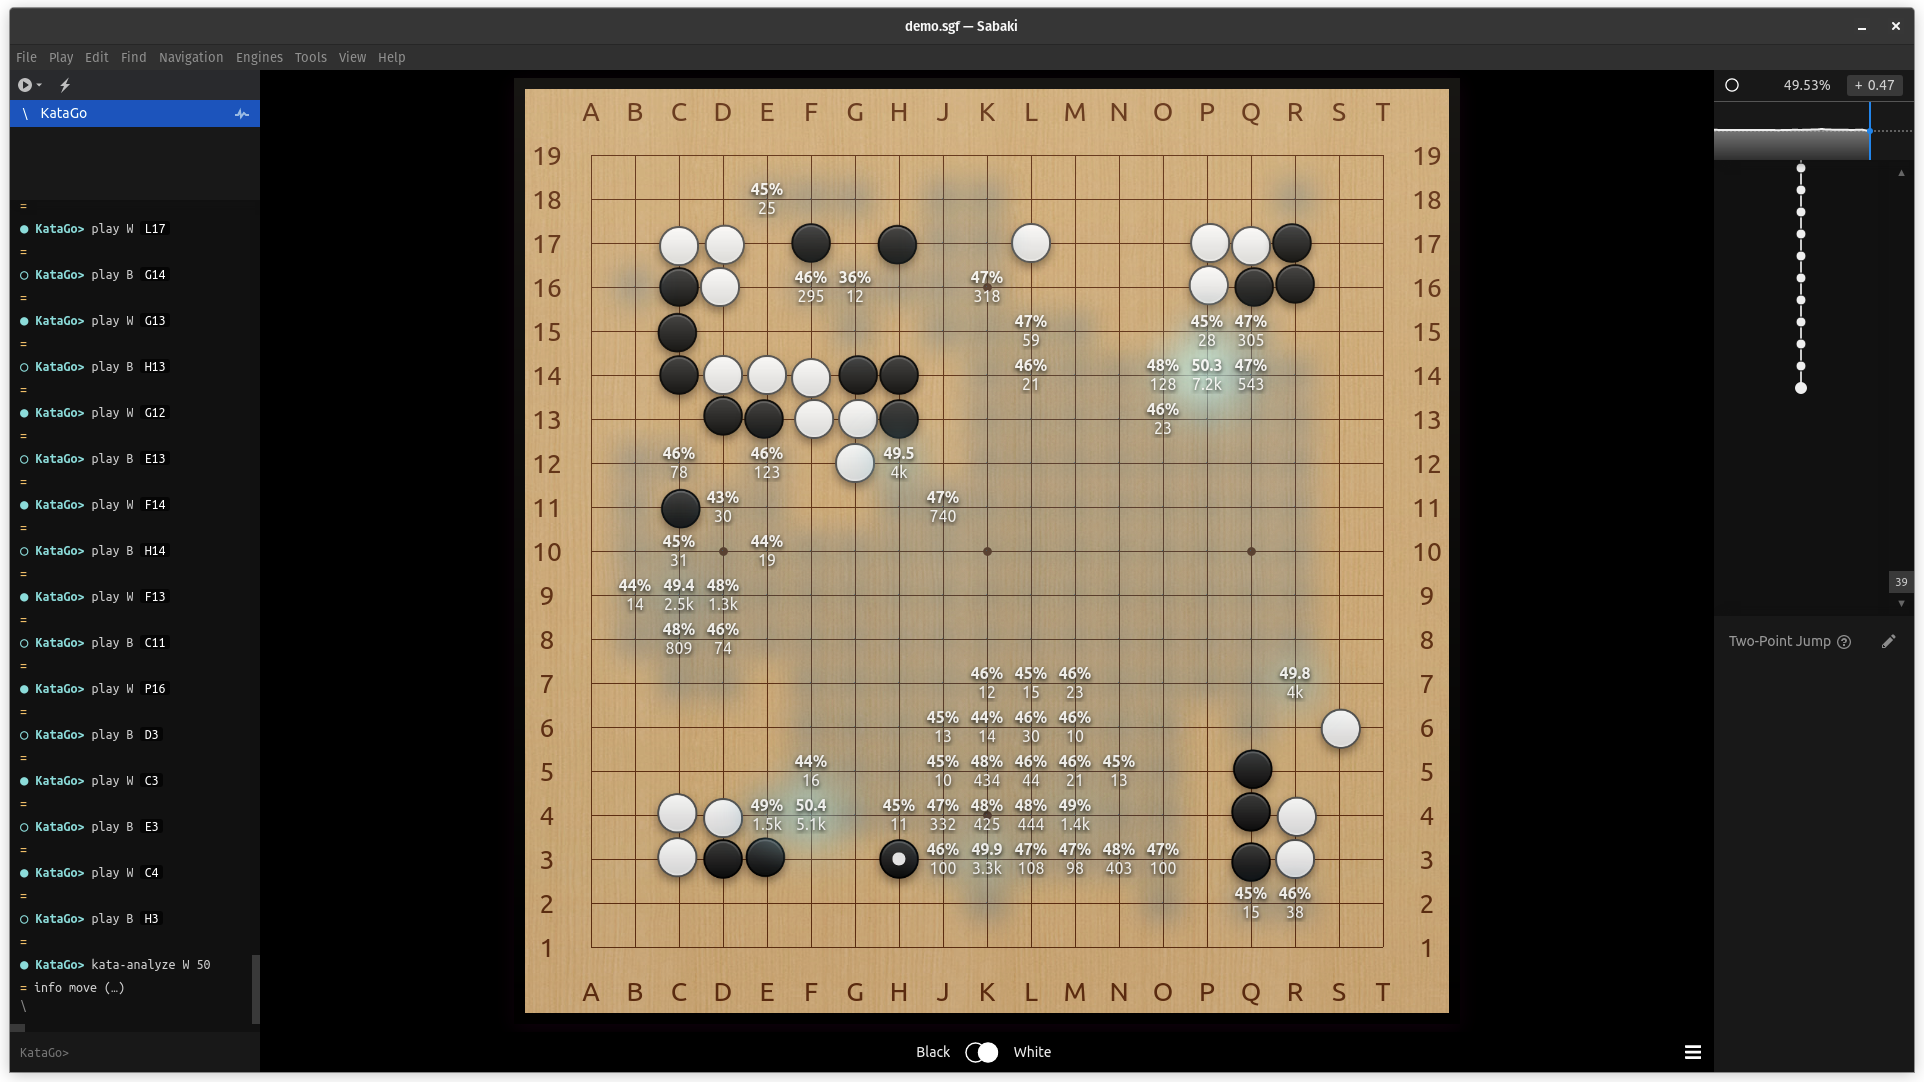
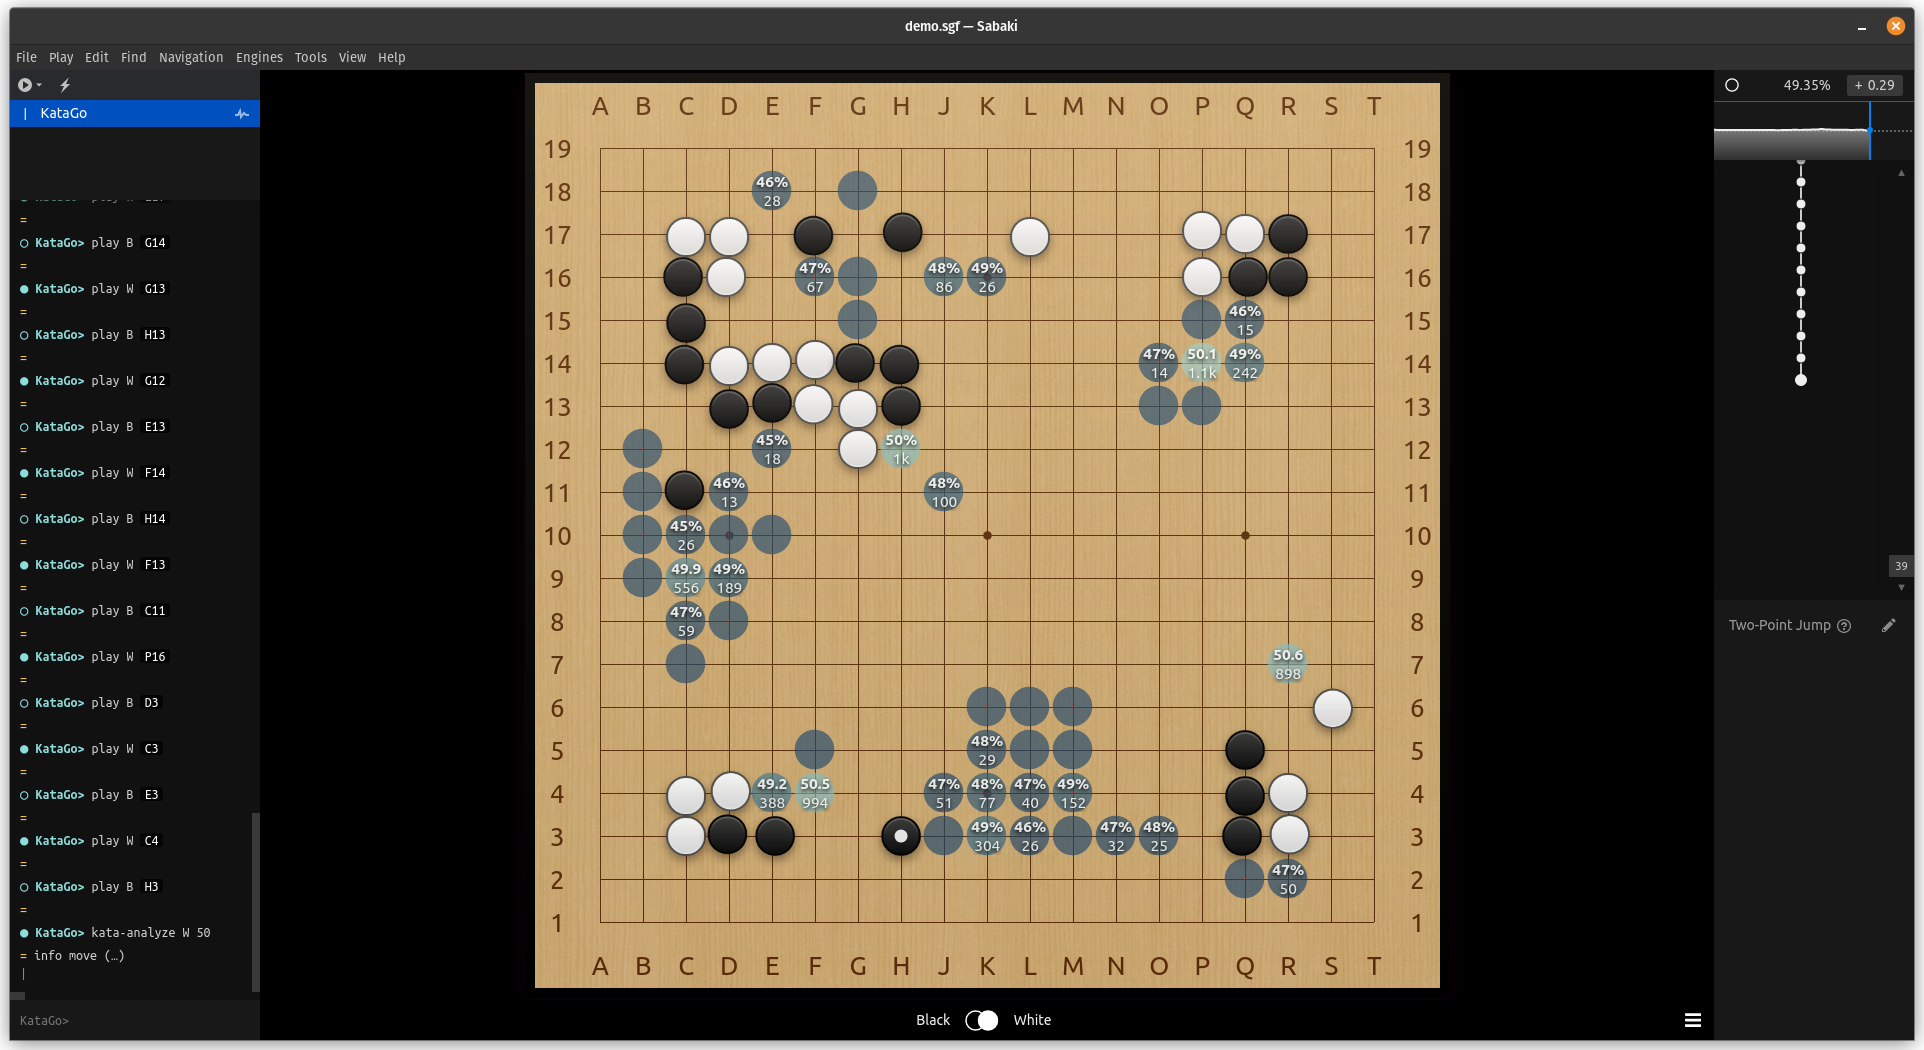
Subdue heatmap to hard circles

diff --git a/subdued/styles.css b/subdued/styles.css
@@ -39,47 +39,38 @@ main {
 /* Turn down the temperature on the heatmap */
 
 .shudan-vertex.shudan-heat_9 .shudan-heat {
-  background: #bcf4f5;
-  box-shadow: 0 0 1em 0.7em #bcf4f5;
-  opacity: 0.8;
+  box-shadow: 0 0 0 .45em #9dd4d5;
+  opacity: 0.65;
 }
 .shudan-vertex.shudan-heat_8 .shudan-heat {
-  background: #bcf4f5;
-  box-shadow: 0 0 1em 0.75em #bcf4f5;
-  opacity: 0.7;
+  box-shadow: 0 0 0 .45em #88c2c9;
+  opacity: 0.65;
 }
 .shudan-vertex.shudan-heat_7 .shudan-heat {
-  background: #94d1dc;
-  box-shadow: 0 0 1em 0.6em #94d1dc;
-  opacity: 0.8;
+  box-shadow: 0 0 0 .45em #74b1bd;
+  opacity: 0.65;
 }
 .shudan-vertex.shudan-heat_6 .shudan-heat {
-  background: #94d1dc;
-  box-shadow: 0 0 1em 0.65em #94d1dc;
-  opacity: 0.8;
+  box-shadow: 0 0 0 .45em #619fb1;
+  opacity: 0.65;
 }
 .shudan-vertex.shudan-heat_5 .shudan-heat {
-  background: #71aec4;
-  box-shadow: 0 0 0.9em 0.5em #71aec4;
-  opacity: 0.7;
+  box-shadow: 0 0 0 .45em #508da4;
+  opacity: 0.65;
 }
 .shudan-vertex.shudan-heat_4 .shudan-heat {
-  background: #548bab;
-  box-shadow: 0 0 0.85em 0.45em #548bab;
-  opacity: 0.8;
+  box-shadow: 0 0 0 .45em #407c98;
+  opacity: 0.65;
 }
 .shudan-vertex.shudan-heat_3 .shudan-heat {
-  background: #548bab;
-  box-shadow: 0 0 0.8em 0.4em #548bab;
-  opacity: 0.7;
+  box-shadow: 0 0 0 .45em #336b8b;
+  opacity: 0.65;
 }
 .shudan-vertex.shudan-heat_2 .shudan-heat {
-  background: #3e6990;
-  box-shadow: 0 0 0.75em 0.35em #3e6990;
-  opacity: 0.8;
+  box-shadow: 0 0 0 .45em #275a7e;
+  opacity: 0.65;
 }
 .shudan-vertex.shudan-heat_1 .shudan-heat {
-  background: #3e6990;
-  box-shadow: 0 0 0.7em 0.3em #3e6990;
-  opacity: 0.7;
+  box-shadow: 0 0 0 .45em #1e4970;
+  opacity: 0.65;
 }
